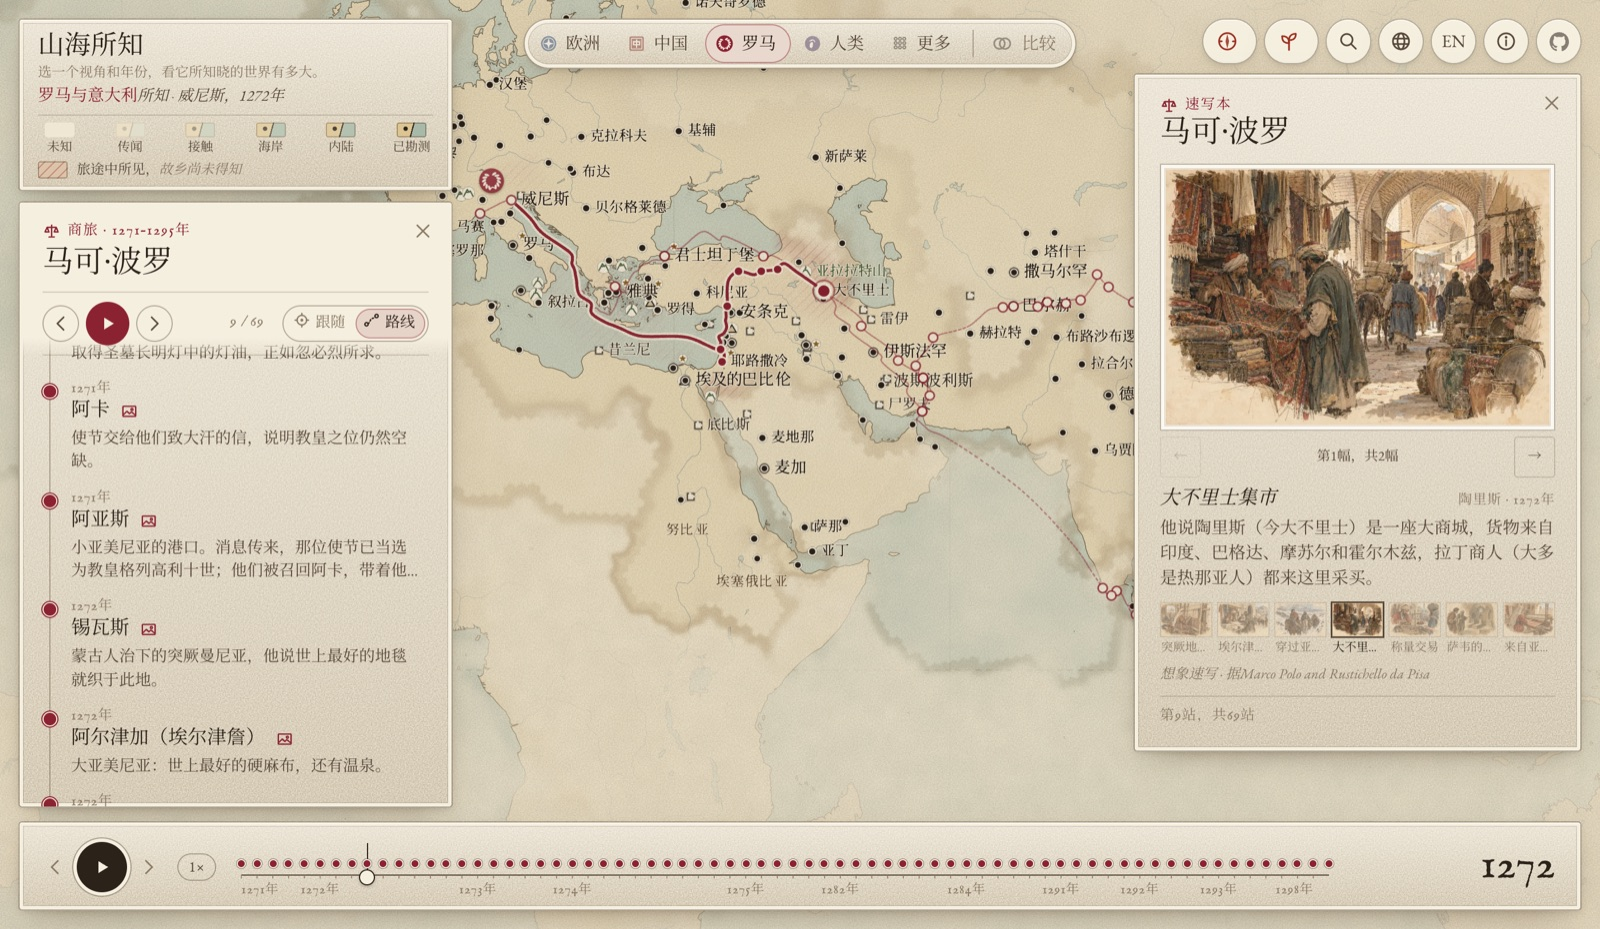
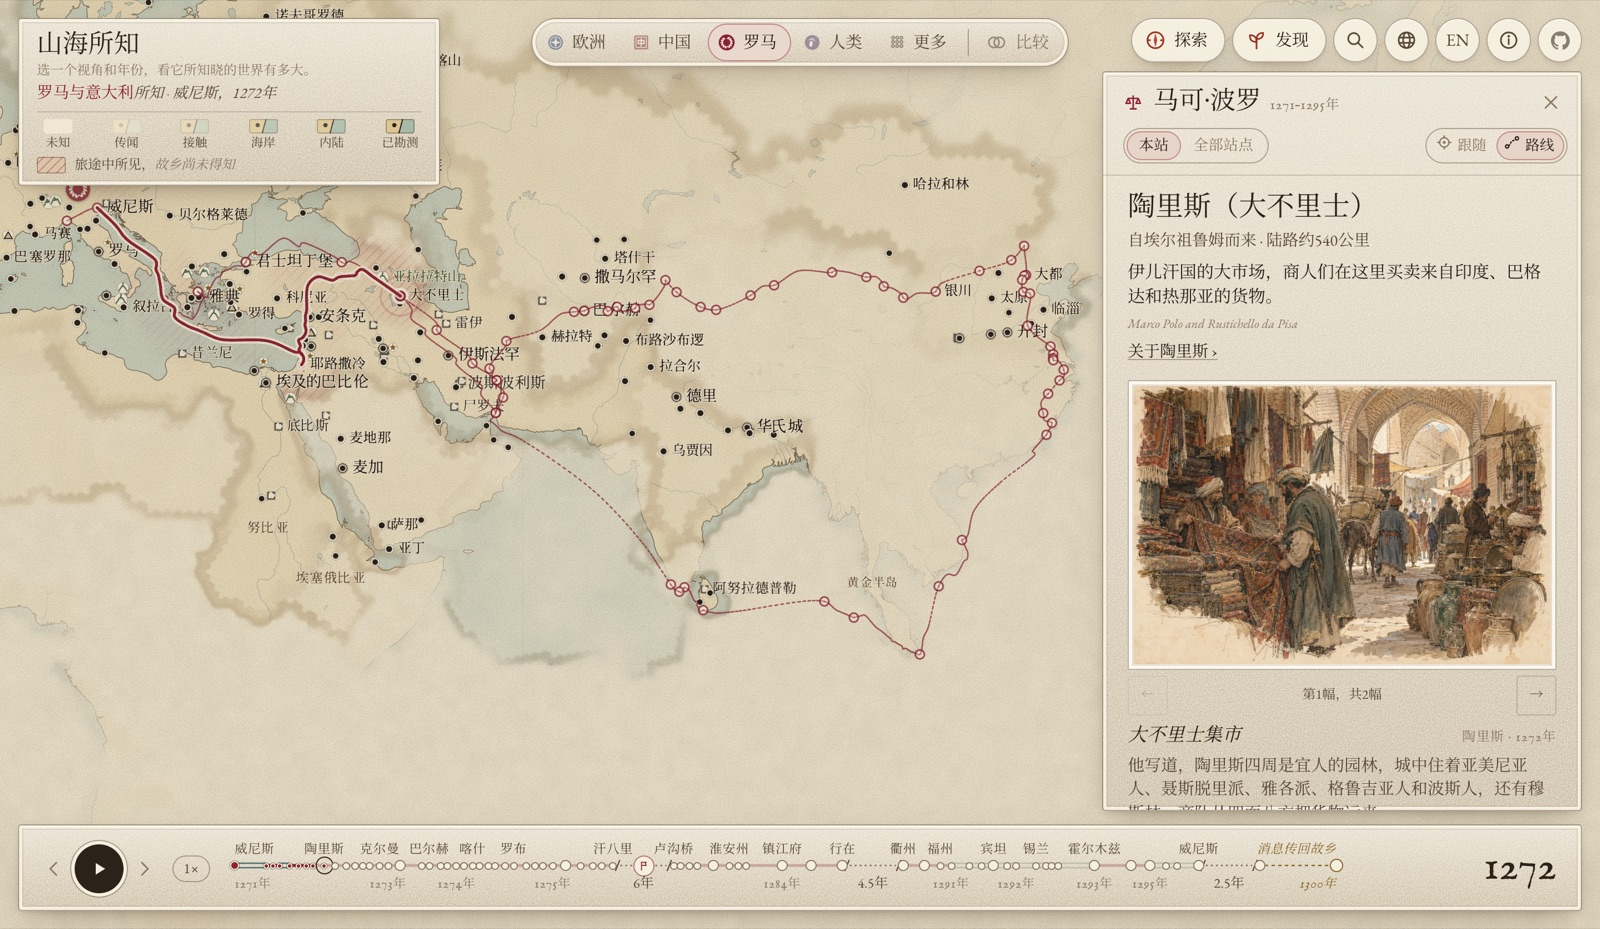
Sketch captions that add to their stop notes; new README screenshots
Rewrites 63 captions, in English and Chinese, that repeated the stop note now
shown beside them, with evidence bases updated where context is added.

diff --git a/README.zh.md b/README.zh.md
@@ -6,9 +6,9 @@
 
 **[打开地图集 →](https://greenere.github.io/the-world-we-know/?lang=zh)** · 中英双语 · 任何现代浏览器均可运行
 
-![郑和第五次下西洋，1418年，船队在阿丹：中国所知的世界、船队航线，以及速写本中阿丹国王回赠长颈鹿等礼物的卡片](docs/images/zheng-he-fifth-voyage.zh.jpg)
+![郑和第五次下西洋，1418年，船队在阿丹：中国所知的世界、船队航线与它自己的时间轴，以及旅程卡片上阿丹国王回赠长颈鹿等礼物的速写](docs/images/zheng-he-fifth-voyage.zh.jpg)
 
-![马可·波罗在大不里士，1272年：罗马所知的世界、他从威尼斯出发的路线，以及速写本中大不里士集市的卡片](docs/images/marco-polo.zh.jpg)
+![马可·波罗在大不里士，1272年：罗马所知的世界、他的全程路线，以及旅程卡片上大不里士集市的速写](docs/images/marco-polo.zh.jpg)
 
 ## 地图集里有什么
 
@@ -30,7 +30,7 @@
 - **35种动植物**，以及它们的消息如何传播：玉米从墨西哥传到中国，茶叶经商队和海路传到欧洲，长颈鹿在明朝宫廷被奉为麒麟，渡渡鸟和恐鸟的灭绝。每一种都标有各个视角得知它的年份，并在地图上标出它的到达地点。
 - **493座城市**的兴起、衰落、被遗忘和重新发现，并以各个视角对它的称呼命名。
 - **两个面板。**“探索”收录旅程与地标，“发现”收录发明与动植物。
-- **比较模式**可并排对照两个视角；还有地球仪视图和平面地图，以及标有共同时代的时间轴：从“走出非洲”到“同一张世界地图”。
+- **比较模式**可并排对照两个视角；还有地球仪视图和平面地图，以及标有共同时代的时间轴：从“走出非洲”到“同一张世界地图”。跟随一段旅程时，时间轴变成这段旅程自己的：陆路与海路、标出时长的长期停留，以及消息传回故乡的时刻。
 
 每个视图都是一个链接：`?vp=china&year=1420`、`?vp=europe,china&year=1420`、`?journey=zhenghe&stop=4`、`?city=loulan`、`?invention=magnetic-compass`、`?living=maize&vp=china`、`&globe=1`、`&lang=zh`。
 

diff --git a/README.md b/README.md
@@ -6,9 +6,9 @@
 
 **[Open the atlas →](https://greenere.github.io/the-world-we-know/)** · in English and Chinese · runs in any modern browser
 
-![Zheng He's fifth voyage at Aden, 1418: China's known world, the fleet's route, and a sketchbook card of the king of Aden's gifts, giraffe included](docs/images/zheng-he-fifth-voyage.jpg)
+![Zheng He's fifth voyage at Aden, 1418: China's known world, the fleet's route and its own timeline, and the journey card with a sketch of the king of Aden's gifts, giraffe included](docs/images/zheng-he-fifth-voyage.jpg)
 
-![Marco Polo at Tabriz, 1272: Rome's known world, his route from Venice, and a sketchbook card of the Tabriz bazaar](docs/images/marco-polo.jpg)
+![Marco Polo at Tabriz, 1272: Rome's known world, his whole route, and the journey card with a sketch of the Tabriz bazaar](docs/images/marco-polo.jpg)
 
 ## What's in it
 
@@ -30,7 +30,7 @@
 - **35 plants and animals**, and how word of them spread: maize from Mexico to China, tea to Europe by caravan and by sea, the giraffe greeted as a qilin at the Ming court, the dodo and the moa lost. Each has the year every viewpoint came to know it, and its arrivals marked on the map.
 - **493 cities** that rise, fall to ruin, are forgotten and are found again, named as each viewpoint named them.
 - **Two panels.** Journeys holds the journeys and landmarks; Discoveries holds the inventions and the plants and animals.
-- **Compare mode** for two viewpoints, a globe as well as the flat map, and a timeline marked with shared eras: from Out of Africa to One shared map.
+- **Compare mode** for two viewpoints, a globe as well as the flat map, and a timeline marked with shared eras: from Out of Africa to One shared map. While you follow a journey, the timeline becomes the journey's own: land and sea legs, long stays folded with their length, and the news reaching home.
 
 Every view is a link: `?vp=china&year=1420`, `?vp=europe,china&year=1420`, `?journey=zhenghe&stop=4`, `?city=loulan`, `?invention=magnetic-compass`, `?living=maize&vp=china`, `&globe=1`, `&lang=zh`.
 
